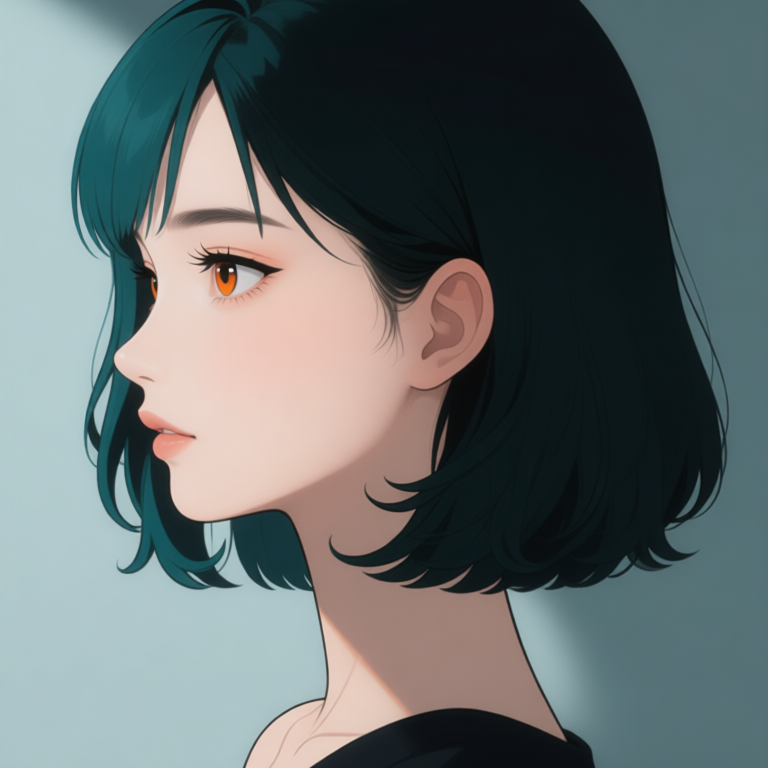
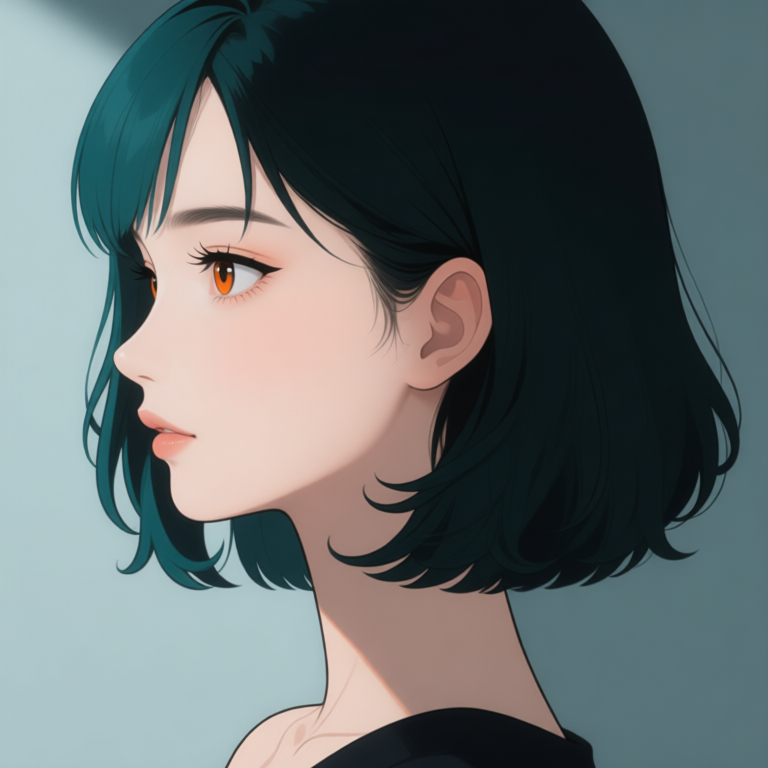
docs(p7-5.7): record approved face rotations

diff --git a/docs/parts/part-07/chapter-05/section-07.md b/docs/parts/part-07/chapter-05/section-07.md
@@ -3,23 +3,31 @@
 > Section ID: `P7-5.7`
 > Version: `v2026.08.21`
 
-같은 인물의 얼굴을 여러 방향으로 만들 때, 정면 이미지와 회전 지시를 한 prompt 안에 모두 반복하면 헤어·이목구비·화풍이 쉽게 흔들린다. 이 절은 **정면 얼굴이 identity와 렌더링을 맡고, 전용 다중 앵글 LoRA가 카메라 회전만 맡는** Qwen 경로를 기록한다. 전신·착장·body-only OpenPose는 [P7-5.2](section-02.md)에서 별도로 관리한다.
+같은 인물의 얼굴을 여러 방향으로 만들 때, 정면 이미지와 회전 지시를 한 prompt 안에 모두 반복하면 헤어·이목구비·화풍이 쉽게 흔들린다. 이 절은 **정면 얼굴은 identity와 렌더링을 맡고, 전용 다중 앵글 LoRA는 카메라 회전만 맡는** Qwen 경로를 기록한다. 전신·착장·body-only OpenPose는 [P7-5.2](section-02.md)에서 별도로 관리한다.
 
-## 먼저 정면 얼굴을 고정한다
+## 1. 어떤 모델을 어떤 역할로 쓰는가
 
-정면 얼굴은 참조 이미지 없이 Qwen으로 생성한 뒤 사람이 승인한 기준이다. 이 기준은 중앙 정면 구도, 높은 콧대와 곧은 코선, 주황·호박색 홍채, 청록과 검정이 나뉜 볼륨 단발, 선과 음영을 대조하는 데만 쓴다. 표정, 전신, 의상, 장면은 이 승인 범위에 포함되지 않는다.
+이 실험의 기반 편집 모델은 `Qwen/Qwen-Image-Edit-2509`이다. Qwen의 공식 모델 카드는 이 모델을 이미지-투-이미지 편집 모델로 제공하며, 단일 입력에서 사람 편집의 얼굴 identity 보존을 개선 대상으로 설명한다. 이 절에서는 그 성질을 이미 보장된 결과로 받아들이지 않고, **승인 정면 얼굴 한 장을 기준 입력으로 놓고 실제 출력에서만** 확인한다. [Qwen, *Qwen-Image-Edit-2509 model card* (Hugging Face, 확인: 2026-08-21)](https://huggingface.co/Qwen/Qwen-Image-Edit-2509){: target="_blank" rel="noopener noreferrer"}
+
+카메라 조건에는 `dx8152/Qwen-Edit-2509-Multiple-angles` LoRA를 덧붙였다. 이 adapter의 모델 카드는 기반 모델을 `Qwen-Image-Edit-2509`로 표시하고, 별도 trigger word 없이 카메라 이동·좌우 회전·위아래 보기 명령을 사용할 수 있다고 안내한다. 같은 카드가 일관성이 불안정할 수 있다는 사용자 보고와 재학습본 업로드도 함께 남기므로, 모델 카드의 예시만으로 후보를 승인하지 않는다. [dx8152, *Qwen-Edit-2509-Multiple-angles model card* (Hugging Face, 확인: 2026-08-21)](https://huggingface.co/dx8152/Qwen-Edit-2509-Multiple-angles){: target="_blank" rel="noopener noreferrer"}
+
+로컬 실행은 `QwenImageEditPlusPipeline`과 저정밀 Nunchaku transformer·Lightning 가중치를 사용했다. 이는 현재 8GB GPU에서 실행하기 위한 런타임 구성이다. 기반 모델 또는 LoRA의 일반 성능 비교가 아니므로, 정확한 가중치·해시·offload 조건은 각 run JSON에 기록하고 결과 이미지를 따로 검수한다.
+
+## 2. 정면 얼굴을 기준으로 고정한다
+
+정면 얼굴은 참조 이미지 없이 Qwen으로 생성한 뒤 사람이 승인한 기준이다. 중앙 정면 구도, 높은 콧대와 곧은 코선, 주황·호박색 홍채, 청록과 검정이 나뉜 볼륨 단발, 선과 음영을 대조하는 데만 쓴다. 표정, 전신, 의상, 장면은 이 승인 범위에 포함되지 않는다.
 
 | 승인된 Qwen 정면 얼굴 | 검수 기록 |
 | --- | --- |
 | ![승인된 Qwen 정면 얼굴](../../../assets/part-07/chapter-05/p7-5-7-face-front-qwen-reference.png) | <a class="aibook-source-link" href="/AiBook/assets/part-07/chapter-05/p7-5-7-face-front-qwen-reference-review.json" data-language="json">review.json</a> |
 
-정면 얼굴 생성의 기본값은 승인본과 같은 10 step이다. 회전 편집의 step 수까지 이 값으로 고정하지 않는다. 회전 결과는 정면 기준과 나란히 놓고 identity·헤어·화풍이 유지되는지 별도로 판정한다.
+정면 얼굴 생성의 기본값은 승인본과 같은 10 step이다. 회전 편집의 step 수까지 이 값으로 고정하지 않는다.
 
 <p><a class="aibook-source-link" href="/AiBook/assets/part-07/chapter-05/p7-5-7-face-identity-contract.json" data-language="json">얼굴 identity 계약</a> · <a class="aibook-source-link" href="/AiBook/assets/part-07/chapter-05/p7-5-7-face-style-prompt-contract.json" data-language="json">얼굴 화풍 계약</a> · <a class="aibook-source-link" href="/AiBook/assets/part-07/chapter-05/p7-5-7-face-illustration-prompt-contract.json" data-language="json">일러스트 계약</a></p>
 
-## 회전은 카메라 조건으로만 준다
+## 3. 입력의 역할을 섞지 않는다
 
-회전 후보에는 승인 정면 얼굴 한 장만 이미지 입력으로 넣는다. 이 입력이 identity·헤어·일러스트 표현을 맡는다. `dx8152/Qwen-Edit-2509-Multiple-angles` LoRA와 짧은 중국어 카메라 명령은 yaw·pitch 변환만 맡는다. 얼굴 OpenPose, 전신 OpenPose, 착장 이미지는 이 얼굴 회전 경로에 넣지 않는다.
+회전 후보에는 승인 정면 얼굴 한 장만 이미지 입력으로 넣는다. 이 입력이 identity·헤어·일러스트 표현을 맡는다. 다중 앵글 LoRA와 짧은 중국어 카메라 명령은 yaw·pitch 변환만 맡는다. 얼굴 OpenPose, 전신 OpenPose, 착장 이미지는 이 얼굴 회전 경로에 넣지 않는다.
 
 | 입력 또는 조건 | 맡는 역할 | 맡지 않는 역할 |
 | --- | --- | --- |
@@ -27,33 +35,35 @@
 | 다중 앵글 LoRA | 카메라 yaw·pitch | 다른 인물의 얼굴·헤어를 새로 정의하는 일 |
 | 짧은 카메라 명령 | 좌·우 45°/90°, 위·아래 각도 | identity 설명의 반복 |
 
-이 분리는 정면 설명을 길게 적어 회전을 강제하는 방법보다, 어느 조건이 실패했는지 구분하기 쉽다. 다만 LoRA가 회전을 수행했다는 사실은 identity 보존을 자동 보장하지 않는다.
+이 분리는 정면 설명을 길게 적어 회전을 강제하는 방법보다 어느 조건이 실패했는지 구분하기 쉽다. LoRA가 회전을 수행했다는 사실은 identity 보존을 자동 보장하지 않는다.
 
-## 승인된 좌측 측면 기준과 후보를 나눈다
+## 4. 승인된 회전 결과를 등록한다
 
-아래 좌·우 측면은 승인 정면 얼굴만을 입력으로 쓴 8-step 결과이며, 사람 검수를 거쳐 P7-5.7의 안정 얼굴 회전 기준으로 승인했다. 각 승인은 해당 측면에만 한정하며, 다른 yaw·pitch·표정·전신에는 자동으로 확장되지 않는다.
+아래 네 결과는 승인 정면 얼굴만을 입력으로 쓴 8-step 결과다. 각 승인은 해당 yaw, `pitch 0°` 이미지 한 장에만 한정한다. 다른 yaw·pitch·표정·전신·장면 조건으로 자동 확장하지 않는다.
 
-| 정면 기준 | 승인된 좌측 측면 | 승인된 우측 측면 |
+| 정면 | 좌측 쿼터 `yaw −45°` | 우측 쿼터 `yaw +45°` |
 | --- | --- | --- |
-| ![정면 얼굴 기준](../../../assets/part-07/chapter-05/p7-5-7-face-front-qwen-reference.png) | ![승인된 좌측 측면](../../../assets/part-07/chapter-05/p7-5-7-face-profile-left-qwen-camera-angle-reference.png) | ![승인된 우측 측면](../../../assets/part-07/chapter-05/p7-5-7-face-profile-right-qwen-camera-angle-reference.png) |
+| ![정면 얼굴 기준](../../../assets/part-07/chapter-05/p7-5-7-face-front-qwen-reference.png) | ![승인된 좌측 쿼터](../../../assets/part-07/chapter-05/p7-5-7-face-quarter-left-qwen-camera-angle-reference.png) | ![승인된 우측 쿼터](../../../assets/part-07/chapter-05/p7-5-7-face-quarter-right-qwen-camera-angle-reference.png) |
 
-<p><a class="aibook-source-link" href="/AiBook/assets/part-07/chapter-05/p7-5-7-face-profile-left-qwen-camera-angle-reference-review.json" data-language="json">좌측 측면 review.json</a> · <a class="aibook-source-link" href="/AiBook/assets/part-07/chapter-05/p7-5-7-face-profile-left-qwen-camera-angle-reference-run.json" data-language="json">run.json</a> · <a class="aibook-source-link" href="/AiBook/assets/part-07/chapter-05/p7-5-7-face-profile-right-qwen-camera-angle-reference-review.json" data-language="json">우측 측면 review.json</a> · <a class="aibook-source-link" href="/AiBook/assets/part-07/chapter-05/p7-5-7-face-profile-right-qwen-camera-angle-reference-run.json" data-language="json">run.json</a></p>
-
-| 승인된 우측 쿼터 | 실행·검수 기록 |
+| 좌측 측면 `yaw −90°` | 우측 측면 `yaw +90°` |
 | --- | --- |
-| ![승인된 우측 쿼터](../../../assets/part-07/chapter-05/p7-5-7-face-quarter-right-qwen-camera-angle-reference.png) | <a class="aibook-source-link" href="/AiBook/assets/part-07/chapter-05/p7-5-7-face-quarter-right-qwen-camera-angle-reference-review.json" data-language="json">review.json</a> · <a class="aibook-source-link" href="/AiBook/assets/part-07/chapter-05/p7-5-7-face-quarter-right-qwen-camera-angle-reference-run.json" data-language="json">run.json</a> |
+| ![승인된 좌측 측면](../../../assets/part-07/chapter-05/p7-5-7-face-profile-left-qwen-camera-angle-reference.png) | ![승인된 우측 측면](../../../assets/part-07/chapter-05/p7-5-7-face-profile-right-qwen-camera-angle-reference.png) |
 
-아래 우측 쿼터 후보는 현재 여러 회전 실험 중 정면 기준의 헤어와 화풍 차이가 가장 적게 관찰된 review-only 결과다. 아직 사람 승인 전이므로 P7-5.2의 안정 전신 자산이나 P7-5.3 장면 입력으로 승격하지 않는다.
+<p><a class="aibook-source-link" href="/AiBook/assets/part-07/chapter-05/p7-5-7-face-quarter-left-qwen-camera-angle-reference-review.json" data-language="json">좌측 쿼터 review.json</a> · <a class="aibook-source-link" href="/AiBook/assets/part-07/chapter-05/p7-5-7-face-quarter-right-qwen-camera-angle-reference-review.json" data-language="json">우측 쿼터 review.json</a> · <a class="aibook-source-link" href="/AiBook/assets/part-07/chapter-05/p7-5-7-face-profile-left-qwen-camera-angle-reference-review.json" data-language="json">좌측 측면 review.json</a> · <a class="aibook-source-link" href="/AiBook/assets/part-07/chapter-05/p7-5-7-face-profile-right-qwen-camera-angle-reference-review.json" data-language="json">우측 측면 review.json</a></p>
+
+## 5. 후보와 탈락 결과는 승인 체인에서 분리한다
+
+아래 우측 쿼터 후보는 현재 review-only다. P7-5.2의 안정 전신 자산이나 P7-5.3 장면 입력으로 승격하지 않는다.
 
 | 정면 기준 | 우측 쿼터 review-only 후보 |
 | --- | --- |
 | ![정면 얼굴 기준](../../../assets/part-07/chapter-05/p7-5-7-face-front-qwen-reference.png) | ![우측 쿼터 review-only 후보](../../../assets/part-07/chapter-05/p7-5-7-qwen-head-quarter_right-dx8152-camera-angle-lightning-v2-seed-62294-steps-8.png) |
 
-<p><a class="aibook-source-link" href="/AiBook/assets/part-07/chapter-05/p7-5-7-qwen-head-quarter_right-dx8152-camera-angle-lightning-v2-seed-62294-steps-8-run.json" data-language="json">우측 쿼터 run.json</a></p>
+<p><a class="aibook-source-link" href="/AiBook/assets/part-07/chapter-05/p7-5-7-qwen-head-quarter_right-dx8152-camera-angle-lightning-v2-seed-62294-steps-8-run.json" data-language="json">우측 쿼터 후보 run.json</a></p>
 
 피치 `−20°` 5방향 후보는 얼굴 비율과 identity 보존이 부족해 탈락 처리하고 폐기했다. 피치 변화는 새 입력 계약을 설계한 뒤 별도 실험으로 다시 시작한다.
 
-## 사람 검수는 네 축을 동시에 본다
+## 6. 사람 검수는 네 축을 동시에 본다
 
 | 항목 | 확인할 질문 |
 | --- | --- |
@@ -64,7 +74,7 @@
 
 방향만 맞고 머리카락이나 이목구비가 달라졌다면 통과가 아니다. 반대로 닮았지만 회전이 실패한 후보도 통과가 아니다. 이 결과는 다음에 step·LoRA 강도·명령 문구를 한 축씩 바꾸는 근거로 남긴다.
 
-## 재실행 코드를 분리해 둔다
+## 7. 재실행 기록을 남긴다
 
 <details id="qwen-face-front-generator" class="aibook-lazy-source" data-source="/AiBook/assets/part-07/chapter-05/p7_5_7_qwen_generate_face_front_reference.py" data-language="python">
 <summary>Qwen 정면 얼굴 후보 생성 코드 보기</summary>
@@ -76,7 +86,7 @@
 <div class="aibook-lazy-source__body">승인 정면 얼굴 하나를 identity·헤어·화풍 기준으로 쓰고, 다중 앵글 LoRA가 카메라 회전만 맡습니다.</div>
 </details>
 
-run JSON에는 입력 이미지 해시, LoRA 저장소와 가중치 해시, target yaw·pitch, seed, step, prompt, `prompt_word_count`, 출력 해시를 남긴다. 후보 파일은 chapter asset 루트에 `p7-5-7-qwen-head-…` 이름으로 저장해 P7-5.2 전신 자산과 구분한다.
+run JSON에는 입력 이미지 해시, LoRA 저장소와 가중치 해시, target yaw·pitch, seed, step, prompt, `prompt_word_count`, 출력 해시를 남긴다. 후보 파일은 chapter asset 루트에 `p7-5-7-qwen-head-…` 이름으로 저장해 승인 자산과 구분한다.
 
 ## 체크리스트
 
@@ -94,3 +104,5 @@ run JSON에는 입력 이미지 해시, LoRA 저장소와 가중치 해시, targ
 - 정면 얼굴의 사람 판정은 이 절에서 연결한 local review JSON을 기준으로 확인한다.
 - 회전 실험의 조건·입력·출력 해시는 각 local run JSON을 기준으로 확인한다.
 - 다중 앵글 LoRA의 저장소·가중치 정보는 run JSON에 기록한다. 외부 가중치는 재배포하지 않는다.
+- Qwen, [*Qwen-Image-Edit-2509 model card*](https://huggingface.co/Qwen/Qwen-Image-Edit-2509){: target="_blank" rel="noopener noreferrer"}, Hugging Face, 확인: 2026-08-21.
+- dx8152, [*Qwen-Edit-2509-Multiple-angles model card*](https://huggingface.co/dx8152/Qwen-Edit-2509-Multiple-angles){: target="_blank" rel="noopener noreferrer"}, Hugging Face, 확인: 2026-08-21.

diff --git a/management/release-notes/sections/part-07/P7-5.7.md b/management/release-notes/sections/part-07/P7-5.7.md
@@ -5,8 +5,11 @@
 
 ### v2026.08.21
 
+- 기반 모델 `Qwen/Qwen-Image-Edit-2509`과 다중 앵글 LoRA `dx8152/Qwen-Edit-2509-Multiple-angles`의 역할·근거를 원고에 추가했다. 공식 Qwen 모델 카드의 이미지 편집·인물 일관성 설명과 LoRA 모델 카드의 카메라 명령·일관성 한계를 각각 출처로 연결했다. 로컬 Nunchaku·Lightning 구성은 8GB GPU 실행 조건일 뿐 일반 성능 비교가 아니라는 경계도 명시했다.
 - P7-5.2에 섞여 있던 Qwen 정면 얼굴 기준과 identity·화풍·일러스트 계약, 정면 얼굴 생성기, Qwen Edit 2509 다중 앵글 LoRA 생성기, yaw·pitch 얼굴 회전 후보를 P7-5.7로 분리했다. 정면 얼굴은 identity·헤어·화풍을, 다중 앵글 LoRA와 짧은 중국어 카메라 명령은 카메라 회전만 맡는 역할 분리를 명시했다.
 - 승인 정면 얼굴 하나를 입력으로 쓴 `seed=62294`, `768×768`, 8-step 좌·우 측면(`yaw −90°/+90°`, `pitch 0°`)을 사람 승인해 안정 PNG·run JSON·review JSON으로 등록했다. 각 승인은 해당 측면에만 한정하며, 다른 yaw·pitch·표정·전신·장면 조건을 승인하지 않는다.
+- 우측 측면은 같은 조건의 v2 후보로 안정 기준을 교체했다. 이전 v1 PNG·run JSON·review JSON은 현재 승인 체인에서 제거하고 Git 이력으로만 보존한다.
 - 같은 입력 조건의 우측 쿼터(`yaw +45°`, `pitch 0°`) v3 8-step 결과도 사람 승인해 안정 PNG·run JSON·review JSON으로 등록했다. 이 승인은 우측 쿼터 한 장에만 한정한다.
+- 같은 입력 조건의 좌측 쿼터(`yaw −45°`, `pitch 0°`) v2 8-step 결과도 사람 승인해 안정 PNG·run JSON·review JSON으로 등록했다. 이 승인은 좌측 쿼터 한 장에만 한정한다.
 - 얼굴 OpenPose와 FACE_70 회전 구조 경로는 현재 회전 실험에서 사용하지 않는다. 우측 쿼터 lightning 8 step 결과는 review-only 후보로 기록한다. pitch `−20°` 5방향 출력은 얼굴 비율과 identity 보존 부족으로 폐기했으며, 방향·identity·헤어·화풍을 함께 사람 검수하기 전에는 P7-5.2 전신·P7-5.3 장면의 승인 입력으로 승격하지 않는다.
 - 번역 반영 상태: 한국어 원문만 반영됨. 원문 기준 버전: `v2026.08.21`.
